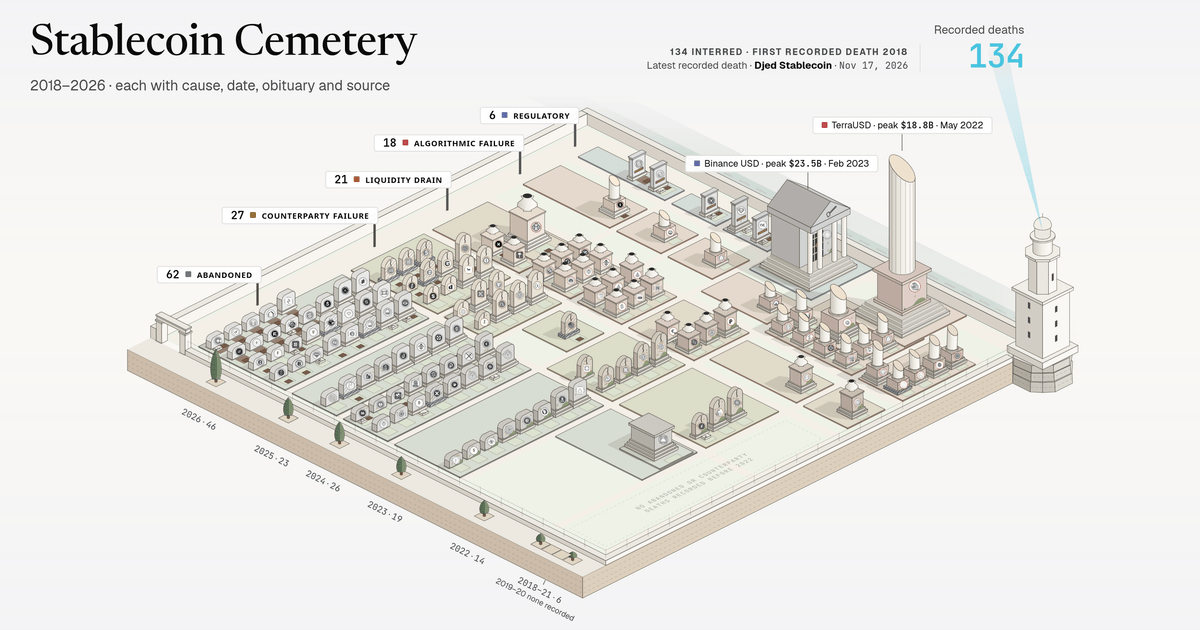
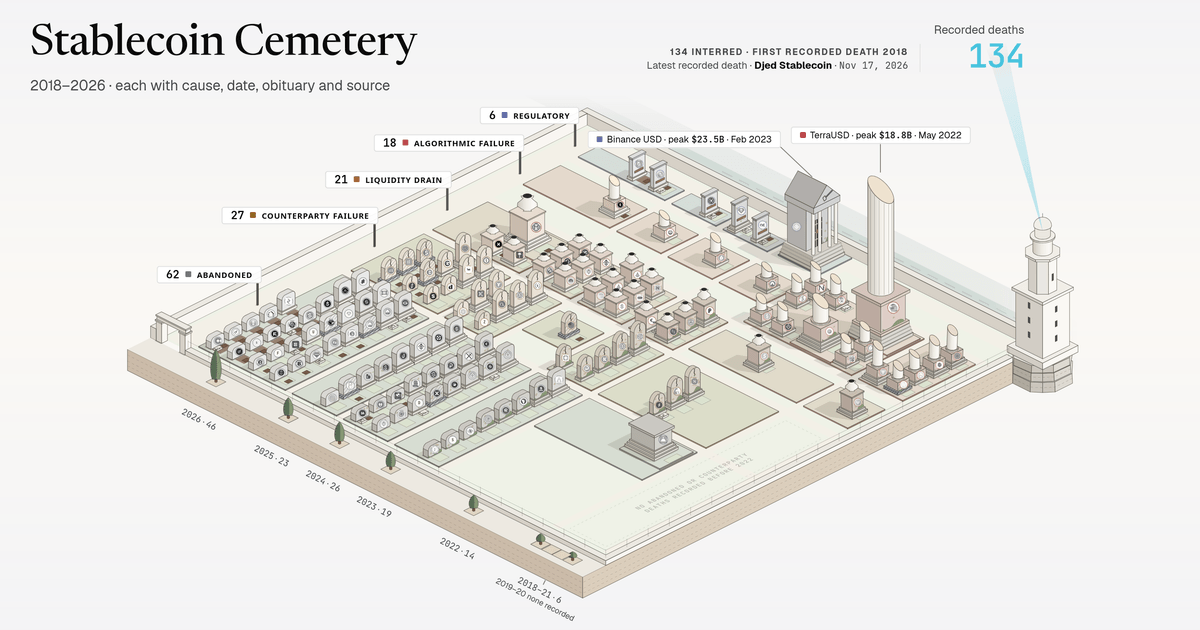
fix(cemetery): keep every colossus inside its own cause lane
Owner feedback: the plot map's early regulatory / algorithmic area looked
misaligned. Both 3x3 colossi sat on the cypress walk, the regulatory lane
and the first algorithmic slot. The packer ranked a shorter plan above
own-lane placement, so TerraUSD took the regulatory lane (empty in 2022)
and Binance USD spilled two slots into the algorithmic lane.

Desktop lots now stay inside their own lane. Only the back lane's large
lots may add the cypress walk, and capacity reports any other crossing as
`lane-overflow`.

Colossi stand on 2x2 lots, so architecture and height, not footprint,
carry their class. The column keeps its full drum and pedestal on a
square podium. The mausoleum scales its plan into the lot and moves its
medallion to the cella's south wall. A long 2x3 temple was tried and
rejected: its extra 2022 row pushed the floor width past a 1366 px
laptop's column, so plain stones there would drop under 15 px.

A colossus keeps the row behind it clear. A block whose packed stones
still hide a medallion gets one more row and is packed again, because
legibility outranks plan length. Here that lengthens 2022 to five rows,
offset by 2023 shrinking to two, so floorWidth (1286 px), the face floor
and 2027 capacity are unchanged.

A lone stone takes its lane's centre slot. The 2023 algorithmic stone no
longer steps aside for BUSD's stairs, so the 2023-2026 single-stone beds
line up. Small-stone lanes in a closed block made deeper by another lane
[…]

diff --git a/src/lib/cemetery-plot-map.ts b/src/lib/cemetery-plot-map.ts
@@ -630,6 +630,30 @@ export function buildCemeteryPlotMap(entries: readonly CemeteryPlotMapInput[], o
 export function buildCemeteryPlotMap(entries: readonly CemeteryPlotMapInput[], options: BuildCemeteryPlotMapOptions<"portrait">): PortraitPlotMap;
 export function buildCemeteryPlotMap(entries: readonly CemeteryPlotMapInput[], options: BuildCemeteryPlotMapOptions): CemeteryPlotMap;
 export function buildCemeteryPlotMap(entries: readonly CemeteryPlotMapInput[], options: BuildCemeteryPlotMapOptions): CemeteryPlotMap {
+  // Legibility outranks plan length: a block whose stones hide one another's medallions gets one more row and is packed
+  // again (bounded; anything still hidden is reported by `validatePlotMapCapacity`).
+  const minBlockRows = new Map<number, number>();
+  let map = packCemeteryPlotMap(entries, options, minBlockRows);
+  for (let pass = 0; pass < PLOT_LEGIBILITY_PASSES; pass++) {
+    const hidden = occludedMedallions(map);
+    if (!hidden.length) break;
+    for (const { grave } of hidden) {
+      const block = map.blocks.find((b) => !b.empty && b.years.includes(grave.year));
+      if (block) minBlockRows.set(block.year, Math.max(minBlockRows.get(block.year) ?? 0, block.rows + 1));
+    }
+    map = packCemeteryPlotMap(entries, options, minBlockRows);
+  }
+  return map;
+}
+
+/** Re-packing passes {@link buildCemeteryPlotMap} may spend lengthening blocks whose medallions are hidden. */
+const PLOT_LEGIBILITY_PASSES = 3;
+
+function packCemeteryPlotMap(
+  entries: readonly CemeteryPlotMapInput[],
+  options: BuildCemeteryPlotMapOptions,
+  minBlockRows: ReadonlyMap<number, number>,
+): CemeteryPlotMap {
   const preset = PLOT_MAP_PRESETS[options.preset];
   if (!preset) throw new Error(`buildCemeteryPlotMap: unknown preset ${String(options.preset)}`);
   if (entries.length === 0) throw new Error("buildCemeteryPlotMap needs at least one cemetery entry");
@@ -764,14 +788,22 @@ export function buildCemeteryPlotMap(entries: readonly CemeteryPlotMapInput[], o
     if (preset.mergeBefore !== null && year < preset.mergeBefore) continue;
     groups.push({ years: [year], emptyYears: [], members: graves.filter((g) => g.year === year).sort(byRank) });
   }
-  // Slot −1 is a virtual slot on the cypress walk: only large lots may step onto it ("stand outside the beds").
-  // Pack newest → oldest so on desktop a lot-3 monument at row 0 reserves its east-facing stair forecourt slots in the
-  // immediately east (older) block when no empty-year strip separates them.
+  // Slot −1 is a virtual slot on the cypress walk: only the back lane's large lots may step onto it ("stand outside the
+  // beds"). Pack newest → oldest so on desktop a lot-3 monument at row 0 reserves its east-facing stair forecourt slots in
+  // the immediately east (older) block when no empty-year strip separates them.
   const northVirtual = preset.northTerrace >= preset.slotPitch * 0.9 ? 1 : 0;
   const isDesktop = preset.name === "desktop";
-  /** Rows (along i) and slots (along j) occupied by a grave: portrait caps width to its own cause column. */
-  const lotSpanI = (g: Pick<Working, "lot">) => (isDesktop ? g.lot : g.lot === 3 ? 2 : g.lot);
-  const lotSpanJ = (g: Pick<Working, "lot" | "cause">) => (isDesktop ? g.lot : Math.min(g.lot, laneGeo[g.cause].depth));
+  /** Slots a large lot of this cause may cover on desktop: its own lane, plus the cypress walk for the back lane. */
+  const walkable = (cause: CauseOfDeath) => northVirtual === 1 && laneGeo[cause].slot0 === 0;
+  const ownSlots = (cause: CauseOfDeath) => laneGeo[cause].depth + (walkable(cause) ? 1 : 0);
+  /**
+   * Rows (along i) and slots (along j) occupied by a grave. Every lot stays inside its own cause lane (the back lane may
+   * add the cypress walk), so a colossus stands on a 2 × 2 lot rather than straddling its neighbours; architecture and
+   * height, not footprint, carry its class. Portrait caps width to its own cause column.
+   */
+  const lotSpanI = (g: Pick<Working, "lot">) => (g.lot === 3 ? 2 : g.lot);
+  const lotSpanJ = (g: Pick<Working, "lot" | "cause">) =>
+    isDesktop ? Math.min(lotSpanI(g), ownSlots(g.cause)) : Math.min(g.lot, laneGeo[g.cause].depth);
   const groupRows = new Map<number, number>();
   const greedyBlocks = new Set<number>();
   const westForecourtByGroup = new Map<number, Set<number>>();
@@ -798,12 +830,17 @@ export function buildCemeteryPlotMap(entries: readonly CemeteryPlotMapInput[], o
         for (let a = 0; a < spanI; a++) for (let b = 0; b < spanJ; b++) if (!free(r + a, s + b)) return null;
         mark(r, s, spanI, spanJ, g.estTopZ);
       }
-      // Same-block east forecourt: a lot-3 monument at r > 0 reserves row r − 1 across its j slots on desktop.
+      // Same-block east forecourt: a lot-3 monument at r > 0 reserves row r − 1 across its j slots on desktop. Its back
+      // court (the row just west of it) stays empty too: a stone there would hide its medallion behind the podium.
       const internalBlocked = new Set<string>();
       if (isDesktop) {
         for (const { g, r, s } of lots) {
+          if (g.lot !== 3) continue;
+          for (let b = 0; b < lotSpanJ(g); b++) if (s + b >= 0) internalBlocked.add(`${r + lotSpanI(g)}:${s + b}`);
+        }
+        for (const { g, r, s } of lots) {
           if (g.lot !== 3 || r <= 0) continue;
-          for (let b = 0; b < g.lot; b++) {
+          for (let b = 0; b < lotSpanJ(g); b++) {
             const fs = s + b;
             if (fs < 0) continue;
             if (!free(r - 1, fs)) return null;
@@ -814,6 +851,7 @@ export function buildCemeteryPlotMap(entries: readonly CemeteryPlotMapInput[], o
 
       let minRows = Math.max(
         1,
+        minBlockRows.get(group.years[0]) ?? 0,
         occHeight.length,
         ...CAUSE_ORDER.map((c) => Math.ceil((smallByCause.get(c)?.length ?? 0) / laneGeo[c].depth)),
       );
@@ -870,11 +908,15 @@ export function buildCemeteryPlotMap(entries: readonly CemeteryPlotMapInput[], o
             const avail = rowAvail[r];
             if (!avail.length) continue;
             const remaining = list.length - idx;
-            // Single grave in a multi-slot lane: centre in safe slots clear of any same-row colossus's south stairs.
+            // Single grave in a multi-slot lane: the lane's centre slot (so single-grave years line up along the lane), or
+            // the nearest safe slot clear of a same-lane, same-row colossus's south stairs.
             if (list.length === 1 && avail.length > 1) {
-              const safe = avail.filter((s) => !lots.some(({ g, r: lr, s: ls }) => g.lot === 3 && r >= lr && r < lr + g.lot && s === ls + g.lot));
+              const safe = avail.filter(
+                (s) => !lots.some(({ g, r: lr, s: ls }) => g.lot === 3 && g.cause === cause && r >= lr && r < lr + lotSpanI(g) && s === ls + lotSpanJ(g)),
+              );
               const pool = safe.length ? safe : avail;
-              const chosenSlot = pool[Math.floor((pool.length - 1) / 2)];
+              const centre = L.slot0 + Math.floor((L.depth - 1) / 2);
+              const chosenSlot = pool.reduce((best, s) => (Math.abs(s - centre) < Math.abs(best - centre) ? s : best), pool[0]);
               const g = list[idx++];
               setH(r, chosenSlot, g.estTopZ);
               at.set(g.id, { r, s: chosenSlot });
@@ -927,8 +969,8 @@ export function buildCemeteryPlotMap(entries: readonly CemeteryPlotMapInput[], o
         const L = laneGeo[g.cause];
         const spanJ = lotSpanJ(g);
         const out: { r: number; s: number; own: number }[] = [];
-        const sMin = isDesktop ? Math.max(northVirtual ? -1 : 0, L.slot0 - (spanJ - 1)) : L.slot0;
-        const sMax = isDesktop ? Math.min(slots - spanJ, L.slot0 + L.depth - 1) : L.slot0 + L.depth - spanJ;
+        const sMin = isDesktop && walkable(g.cause) ? -1 : L.slot0;
+        const sMax = L.slot0 + L.depth - spanJ;
         for (let s = sMin; s <= sMax; s++) {
           const own = Math.min(s + spanJ, L.slot0 + L.depth) - Math.max(s, L.slot0);
           for (let r = 0; r <= maxRow; r++) out.push({ r, s, own });
@@ -1004,7 +1046,7 @@ export function buildCemeteryPlotMap(entries: readonly CemeteryPlotMapInput[], o
         // When the next older block touches this one across a single yearPath (no empty-year strip), reserve its west-most row.
         if (prevEnd + 1 === group.years[0]) {
           const fc = westForecourtByGroup.get(gi - 1) ?? new Set<number>();
-          for (let b = 0; b < g.lot; b++) if (s + b >= 0) fc.add(s + b);
+          for (let b = 0; b < lotSpanJ(g); b++) if (s + b >= 0) fc.add(s + b);
           westForecourtByGroup.set(gi - 1, fc);
         }
       }
@@ -1013,6 +1055,18 @@ export function buildCemeteryPlotMap(entries: readonly CemeteryPlotMapInput[], o
       const at = chosen.at.get(g.id)!;
       g.row = at.r;
       g.slot = at.s;
+    }
+    // A lane of small stones in a closed block made deep by another lane sits mid-block, so its bed never shows more
+    // than `maxEmptyBedRows` bare rows (the newest block keeps east anchoring, so new deaths never move a stone).
+    if (isDesktop && preset.maxEmptyBedRows !== null && gi < groups.length - 1) {
+      for (const cause of CAUSE_ORDER) {
+        const mine = members.filter((g) => g.cause === cause);
+        if (!mine.length || mine.some((g) => g.lot > 1)) continue;
+        const used = Math.max(...mine.map((g) => g.row)) + 1;
+        if (chosen.rows - used <= preset.maxEmptyBedRows) continue;
+        const shift = Math.floor((chosen.rows - used) / 2);
+        for (const g of mine) g.row += shift;
+      }
     }
     groupRows.set(group.years[0], chosen.rows);
     if (found.greedy) greedyBlocks.add(group.years[0]);
@@ -1735,16 +1789,16 @@ function checkGraveBounds(map: CemeteryPlotMap, eps: number): PlotCapacityIssue[
   const block = new Map<number, PlotYearBlock>();
   for (const b of map.blocks) if (!b.empty) for (const y of b.years) block.set(y, b);
   const { site } = map;
+  // Every grave stays inside its own lane; on desktop the back lane's large lots may also stand on the cypress walk.
+  const backLane = map.lanes.reduce((a, b) => (b.j0 < a.j0 ? b : a));
   for (const g of map.graves) {
     const L = lane[g.cause];
     const B = block.get(g.year);
     const { cell } = g;
-    const inLane =
-      map.preset === "portrait" || g.lot === 1
-        ? cell.j0 >= L.j0 - eps && cell.j1 <= L.j1 + eps
-        : cell.j0 < L.j1 - eps && cell.j1 > L.j0 + eps;
+    const laneJ0 = map.preset === "desktop" && g.lot > 1 && L === backLane ? 0 : L.j0;
+    const inLane = cell.j0 >= laneJ0 - eps && cell.j1 <= L.j1 + eps;
     if (!inLane || cell.j0 < -eps || cell.j1 > site.jFront + eps) {
-      issues.push({ kind: "lane-overflow", message: `${g.id} (${g.lot}×${g.lot}) leaves the ${L.label} lane or the site` });
+      issues.push({ kind: "lane-overflow", message: `${g.id} (lot ${g.lot}) leaves the ${L.label} lane or the site` });
     }
     if (!B || cell.i0 < B.i0 - eps || cell.i1 > B.i1 + eps) {
       issues.push({ kind: "block-overflow", message: `${g.id} leaves its ${g.year} block` });
@@ -2036,6 +2090,15 @@ const MEDALLION_SAMPLES: readonly (readonly [number, number])[] = (() => {
  * faces (measured deterministically on both desktop and portrait presets).
  */
 function checkMedallionOcclusion(map: CemeteryPlotMap): PlotCapacityIssue[] {
+  const limit = PLOT_LAYOUT.maxMedallionOcclusion;
+  return occludedMedallions(map).map(({ grave, share }) => ({
+    kind: "medallion-occluded",
+    message: `${grave.id} (${map.preset}) medallion ${Math.round(share * 100)}% occluded (> ${Math.round(limit * 100)}%)`,
+  }));
+}
+
+/** Graves whose medallion is more than `maxMedallionOcclusion` covered by later-drawn solid faces, with the covered share. */
+function occludedMedallions(map: CemeteryPlotMap): { grave: PlotGrave; share: number }[] {
   const proj = PLOT_PROJECTIONS[map.projection];
   const byKey = new Map(map.graves.map((g) => [`grave:${g.id}`, g]));
   const ordered = map.drawOrder.flatMap((key) => {
@@ -2048,7 +2111,7 @@ function checkMedallionOcclusion(map: CemeteryPlotMap): PlotCapacityIssue[] {
     const box = bbox(polys.flat());
     return [{ g, medal: geo.medal, polys, box }];
   });
-  const issues: PlotCapacityIssue[] = [];
+  const hidden: { grave: PlotGrave; share: number }[] = [];
   const limit = PLOT_LAYOUT.maxMedallionOcclusion;
   for (let i = 0; i < ordered.length; i++) {
     const { g, medal } = ordered[i];
@@ -2067,14 +2130,9 @@ function checkMedallionOcclusion(map: CemeteryPlotMap): PlotCapacityIssue[] {
       }
     }
     const share = covered / MEDALLION_SAMPLES.length;
-    if (share > limit + 1e-9) {
-      issues.push({
-        kind: "medallion-occluded",
-        message: `${g.id} (${map.preset}) medallion ${Math.round(share * 100)}% occluded (> ${Math.round(limit * 100)}%)`,
-      });
-    }
+    if (share > limit + 1e-9) hidden.push({ grave: g, share });
   }
-  return issues;
+  return hidden;
 }
 
 /** Ordered capacity/scene-lint checks. Adding a new issue kind is one check function appended here. */

diff --git a/src/lib/cemetery-plot-geometry.ts b/src/lib/cemetery-plot-geometry.ts
@@ -175,10 +175,16 @@ export function lotPadCell(cell: PlotCell): PlotCell {
   };
 }
 
-/** Half-extents of a lot-3 colossus podium; portrait scales cleanly inside its own column pad with oblique margin. */
+/**
+ * Half-extents of a lot-3 colossus podium. Desktop fills its 2 × 2 lot clear of the pad edge and of the 0.14 west
+ * shift; portrait scales cleanly inside its own column pad.
+ */
 function colossusHalfExtents(shape: PlotShape, cell: PlotCell, projectionName: PlotProjectionName): { ei: number; ej: number } {
   if (projectionName !== "portrait") {
-    return { ei: shape === "colossal-column" ? 1.24 : 1.28, ej: 1.24 };
+    return {
+      ei: round3((cell.i1 - cell.i0) / 2 - PLOT_PAD_INSET - 0.2),
+      ej: round3((cell.j1 - cell.j0) / 2 - PLOT_PAD_INSET - 0.04),
+    };
   }
   const maxJ = Math.max(0.36, (cell.j1 - cell.j0) / 2 - PLOT_PAD_INSET - 0.13);
   const maxI = Math.max(0.42, (cell.i1 - cell.i0) / 2 - PLOT_PAD_INSET - 0.12);
@@ -208,7 +214,7 @@ function graveHalfExtents(
   projectionName: PlotProjectionName = "dimetric",
 ): { hi: number; hj: number; fe: number } {
   if (lot === 3) {
-    if (cell && projectionName === "portrait") {
+    if (cell) {
       const { ei, ej } = colossusHalfExtents(shape, cell, projectionName);
       return { hi: ei, hj: ej, fe: 0 };
     }
@@ -237,7 +243,8 @@ export function graveAnchorOffsetI(
   steps: PlotPeakClass | null,
   projectionName: PlotProjectionName = "dimetric",
 ): number {
-  if (lot === 3) return projectionName === "portrait" ? 1.1 : 1.5;
+  // Desktop: the podium centre of a 2-row colossus lot (half its two 1.1-unit rows, less the 0.14 west shift).
+  if (lot === 3) return projectionName === "portrait" ? 1.1 : 0.96;
   const { hi, fe } = graveHalfExtents(shape, lot, steps);
   const sc = lot === 2 ? 1.55 : 1;
   const baseReach =
@@ -959,8 +966,11 @@ function colossusGeometry(siteP: PlotProjection, g: PlotGraveShapeInput): PlotGr
   const ic = colossusCenterI(g.shape, g.cell, siteP.name);
   const { proj: p, dx, dy } = portraitLocalCamera(siteP, ic, g.lot);
   const { ei, ej } = colossusHalfExtents(g.shape, g.cell, siteP.name);
-  const sx = isPortrait ? ej / 1.24 : 1;
-  const si = isPortrait ? ei / (g.shape === "colossal-column" ? 1.24 : 1.28) : 1;
+  // Portrait scales the whole colossus into its pad; on desktop the column keeps its full drum and pedestal on its 2 × 2
+  // podium while the mausoleum scales its plan (not its height) into the same lot.
+  const scaled = isPortrait || g.shape === "mausoleum";
+  const sx = scaled ? ej / 1.24 : 1;
+  const si = scaled ? ei / (g.shape === "colossal-column" ? 1.24 : 1.28) : 1;
   const plinth: PlotMark[] = [];
   const stone: PlotMark[] = [];
   const padMarks: PlotMark[] = [...lotPadMarks(siteP, g.cell, baseZ)];
@@ -969,8 +979,10 @@ function colossusGeometry(siteP: PlotProjection, g: PlotGraveShapeInput): PlotGr
   let H: number;
   let medal: { x: number; y: number; r: number };
   const stepH = isPortrait ? 0.065 : 0.13;
-  const treadI = isPortrait ? 0.09 * si : 0.09;
-  const treadJ = isPortrait ? 0.09 * sx : 0.09;
+  // Desktop podium steps narrow to 0.03 on any side shorter than the full 1.2 half-extent, keeping the top step wider
+  // than the pedestal or cella it carries.
+  const treadI = isPortrait ? 0.09 * si : ei < 1.2 ? 0.03 : 0.09;
+  const treadJ = isPortrait ? 0.09 * sx : ej < 1.2 ? 0.03 : 0.09;
   const podium = (pi: number, pj: number) => {
     for (let q = 0; q < 4; q++) {
       plinth.push(...boxMarks(p, ic - pi + treadI * q, jc - pj + treadJ * q, baseZ + q * stepH, 2 * (pi - treadI * q), 2 * (pj - treadJ * q), stepH, "pl", q === 0 ? " e" : " es"));
@@ -1046,7 +1058,8 @@ function colossusGeometry(siteP: PlotProjection, g: PlotGraveShapeInput): PlotGr
     let my = 0;
     const medD = isPortrait ? Math.min(0.46, 0.9 * sx) : 0.48;
     if (!isPortrait) {
-      [mx, my] = project(p, ci1 + 0.01, jc - 0.5, zp + 0.85);
+      // The narrow portico holds only the barred door: the medallion sits mid-way along the south wall of the cella.
+      [mx, my] = project(p, (ci0 + ci1) / 2, jc + cj + 0.01, zp + 0.85);
       stone.push(medallionMark(mx, my, medD));
     }
     const colI = ic + 0.96 * si;

diff --git a/src/lib/__tests__/cemetery-plot-map.test.ts b/src/lib/__tests__/cemetery-plot-map.test.ts
@@ -314,16 +314,34 @@ describe("validatePlotMapCapacity", () => {
       expect(fittedWidth(w, h)).toBeGreaterThanOrEqual(desktop.floorWidth);
     }
 
-    // Item 1 (FX2): sparse desktop per-block beds trim along j to occupied slots + 1 inside their lane (e.g. 2024–2026
-    // Algorithmic single-grave blocks narrow from 4 slots to 2 slots without overhanging any grave).
+    // Item 1 (FX2): sparse desktop per-block beds trim along j to occupied slots + 1 inside their lane (e.g. 2023–2026
+    // Algorithmic single-grave blocks narrow from 4 slots to 2 slots without overhanging any grave), and those
+    // single-grave years share the lane's centre slot so their beds line up instead of zigzagging.
     const algoLane = desktop.lanes.find((l) => l.cause === "algorithmic-failure")!;
-    for (const year of [2024, 2025, 2026]) {
+    for (const year of [2023, 2024, 2025, 2026]) {
       const cell = algoLane.cells.find((c) => c.year === year)!;
       expect(cell).toBeDefined();
       expect(cell.j1 - cell.j0).toBeCloseTo(2 * desktop.slotPitch, 2);
       expect(cell.j0).toBeGreaterThanOrEqual(algoLane.j0 - 1e-6);
       expect(cell.j1).toBeLessThanOrEqual(algoLane.j1 + 1e-6);
+      expect(cell.j0).toBeCloseTo(algoLane.cells.find((c) => c.year === 2026)!.j0, 6);
     }
+
+    // Desktop colossi stand on 2 × 2 lots inside their own lane (BUSD's back lane may add the cypress walk), never
+    // straddling a neighbour; moving UST into the regulatory lane fails `lane-overflow`.
+    const desktopLaneByCause = new Map(desktop.lanes.map((L) => [L.cause, L]));
+    for (const g of desktop.graves.filter((d) => d.lot === 3)) {
+      const L = desktopLaneByCause.get(g.cause)!;
+      expect(g.cell.i1 - g.cell.i0, `${g.id} rows`).toBeCloseTo(2 * desktop.rowPitch, 6);
+      expect(g.cell.j1 - g.cell.j0, `${g.id} slots`).toBeCloseTo(2 * desktop.slotPitch, 6);
+      expect(g.cell.j1, `${g.id} leaves its lane`).toBeLessThanOrEqual(L.j1 + 1e-6);
+      expect(g.cell.j0, `${g.id} leaves its lane`).toBeGreaterThanOrEqual(g.cause === "regulatory" ? 0 : L.j0 - 1e-6);
+    }
+    const strayUst = {
+      ...desktop,
+      graves: desktop.graves.map((g) => (g.id === "ust-terrausd-2022-05" ? { ...g, cell: { ...g.cell, j0: g.cell.j0 - desktop.slotPitch } } : g)),
+    };
+    expect(validatePlotMapCapacity(strayUst).issues.map((i) => i.kind)).toContain("lane-overflow");
 
     // Item 6: every portrait grave (including lot-3 colossi UST and BUSD) stays strictly inside its own cause column.
     const portraitLaneByCause = new Map(portrait.lanes.map((L) => [L.cause, L]));
